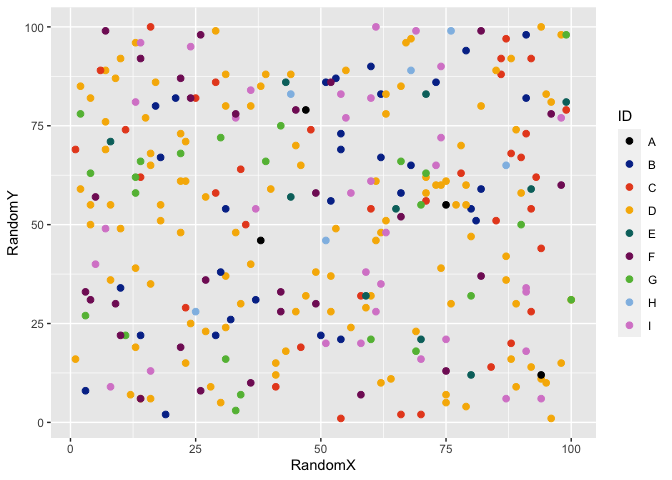
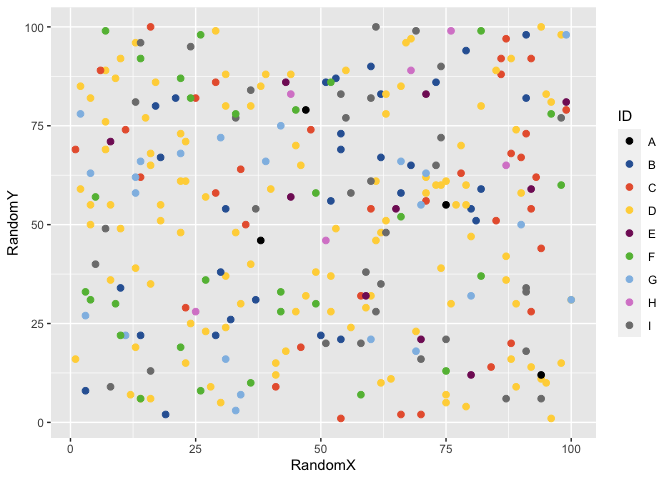
update readme with new colors

diff --git a/README.md b/README.md
@@ -38,14 +38,14 @@ Retrieve Poisson colours and palettes
 library(poispalette)
 
 pois_pal("discrete")
-#>      black       blue        red     yellow       aqua     purple      green 
-#>  "#000000"  "#053296"  "#E84D22"  "#F7B500"  "#00706C"  "#821C65"  "#63BB42" 
-#> light blue     orchid       grey 
-#>  "#90BDE5"  "#D888CF"  "#7D7D7D"
+#>      black       blue        red     yellow     purple      green light blue 
+#>  "#000000"  "#3063A3"  "#E8613C"  "#FFD446"  "#821C65"  "#63BB42"  "#90BDE5" 
+#>     orchid       grey 
+#>  "#D888CF"  "#7D7D7D"
 
 pois_cols(c("red", "yellow"))
 #>       red    yellow 
-#> "#E84D22" "#F7B500"
+#> "#E8613C" "#FFD446"
 ```
 
 Plot discrete scales
